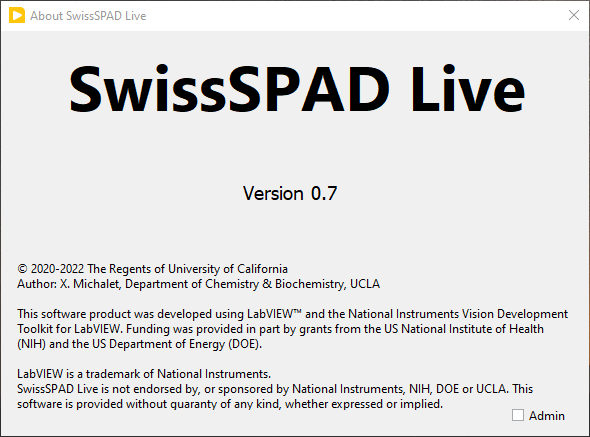
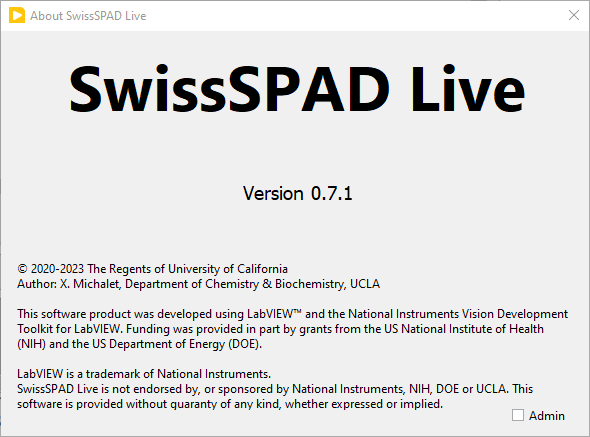
doc update: about and PDF

diff --git a/docs/source/conf.py b/docs/source/conf.py
@@ -31,10 +31,10 @@ copyright = '2021-2023, Regents of the University of California'
 author = 'X. Michalet'
 
 # The short X.Y version.
-version = '0.7'
+version = '0.7.1'
 
 # The full version, including alpha/beta/rc tags
-release = '0.7'
+release = '0.7.1'
 
 
 # -- General configuration ---------------------------------------------------
@@ -57,3 +57,7 @@ templates_path = ['_templates']
 # This pattern also affects html_static_path and html_extra_path.
 exclude_patterns = ['_build']
 
+# Build PDF & ePub
+formats:
+  - epub
+  - pdf
